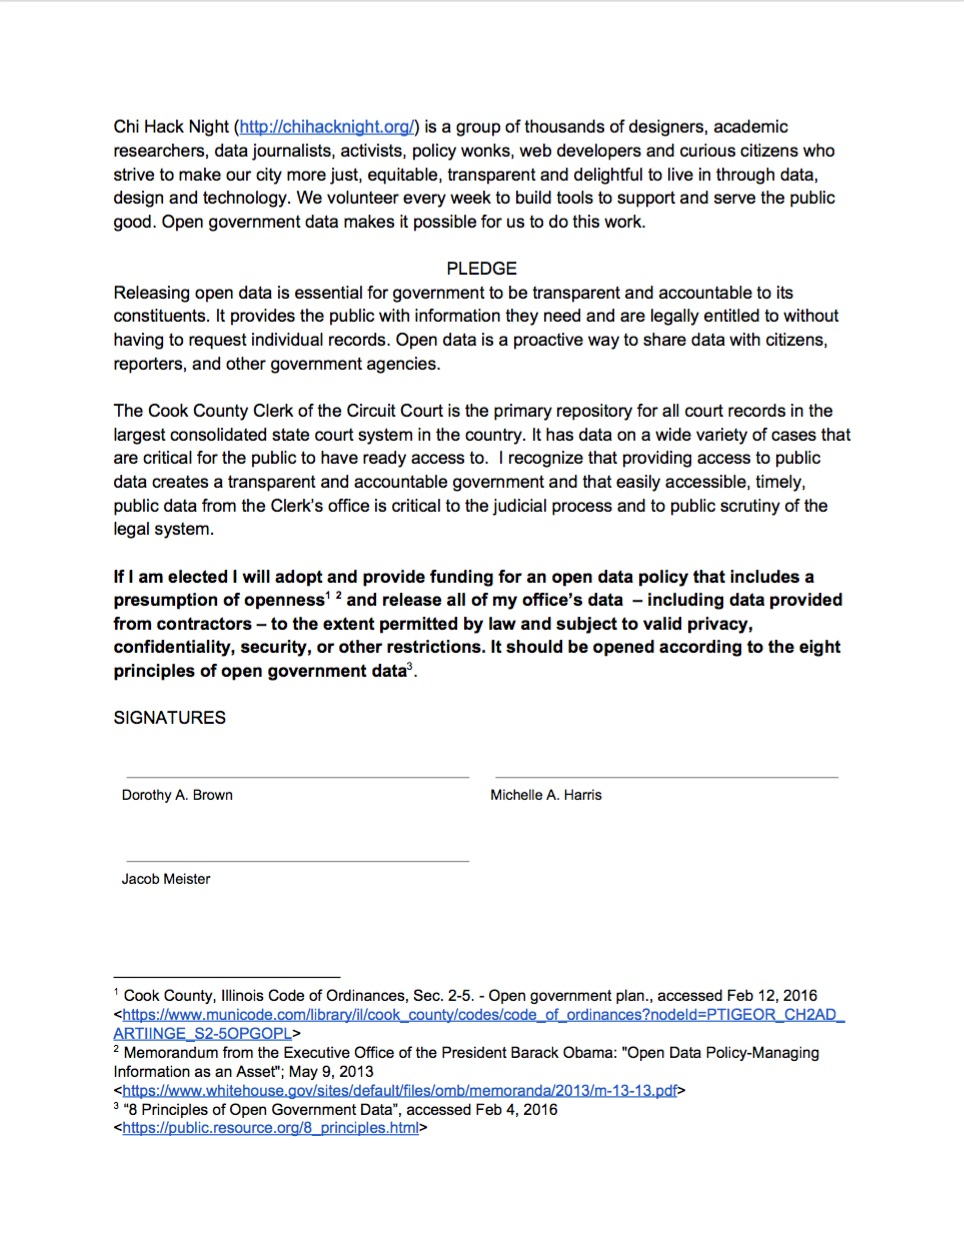
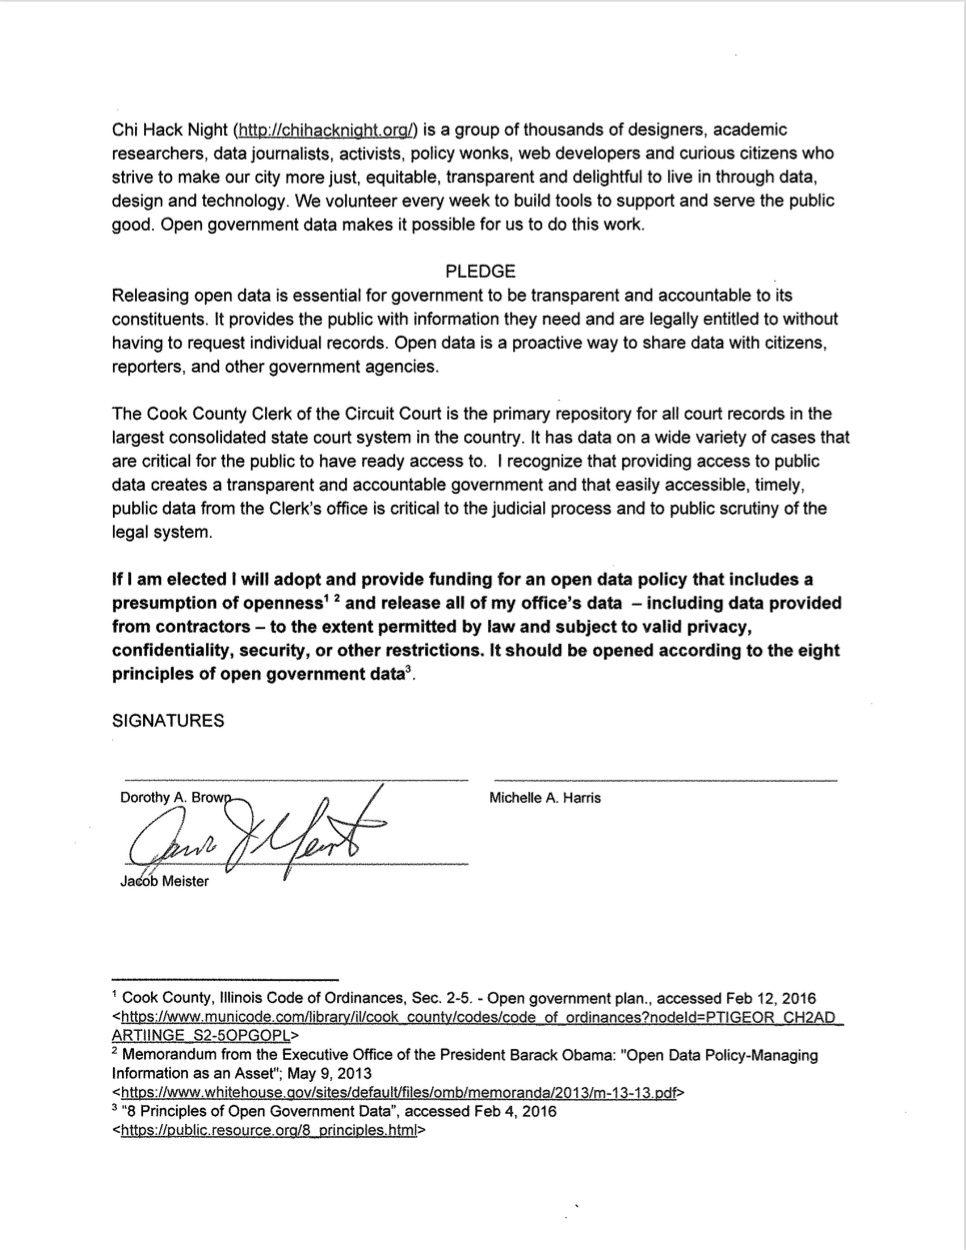
added meister signature

diff --git a/_posts/blog/2016-02-16-chi-hack-nights-open-data-pledge-for-cook-county-clerk-of-the-circuit-court.md b/_posts/blog/2016-02-16-chi-hack-nights-open-data-pledge-for-cook-county-clerk-of-the-circuit-court.md
@@ -31,9 +31,9 @@ Below is the invitation to all candidates, as well as the text of the Open Data 
 
 ### Candidate responses
 
+* <span style='color: #009538;'><i class='fa fa-fw fa-check'></i></span> **Jacob Meister** (D) - Signed on February 22, 2016
 * <span style='color: #FFBF22;'><i class='fa fa-fw fa-circle-o'></i></span> Dorothy A. Brown (D) - No response yet
 * <span style='color: #FFBF22;'><i class='fa fa-fw fa-circle-o'></i></span> Michelle A. Harris (D) - No response yet
-* <span style='color: #FFBF22;'><i class='fa fa-fw fa-circle-o'></i></span> Jacob Meister (D) - No response yet
 * <span style='color: #FFBF22;'><i class='fa fa-fw fa-circle-o'></i></span> Diane S. Shapiro (R) - No response yet
 
 ### What does the Clerk of the Circuit Court do?
@@ -68,10 +68,10 @@ Lead Organizer, Chi Hack Night
 Here is the open data pledge, with signatures from the candidates collected so far.
 
 <p class="text-center">
-    <a href='/docs/CookCountyClerkoftheCircuitCourt-OpenDataPledge.pdf'><img src="/images/blog/2016-02-16-chi-hack-nights-open-data-pledge-for-cook-county-clerk-of-the-circuit-court/open-data-pledge.jpg" alt="Open Data Pledge for Cook County State's Attorney" class="img-thumbnail" /></a>
+    <a href='/docs/CookCountyClerkoftheCircuitCourt-OpenDataPledge-Meister.pdf'><img src="/images/blog/2016-02-16-chi-hack-nights-open-data-pledge-for-cook-county-clerk-of-the-circuit-court/open-data-pledge.jpg" alt="Open Data Pledge for Cook County State's Attorney" class="img-thumbnail" /></a>
     <br />
 
-    <a href='/docs/CookCountyClerkoftheCircuitCourt-OpenDataPledge.pdf'>Download the pledge (PDF)</a>
+    <a href='/docs/CookCountyClerkoftheCircuitCourt-OpenDataPledge-Meister.pdf'>Download the pledge (PDF)</a>
 </p>
 
 You can also <a href='https://docs.google.com/document/d/14C1AYK0YRYakXffUDdgc-PPYziUuVs7GJL_hUY6Ain8/edit'>view the original pledge in Google Docs</a>.
